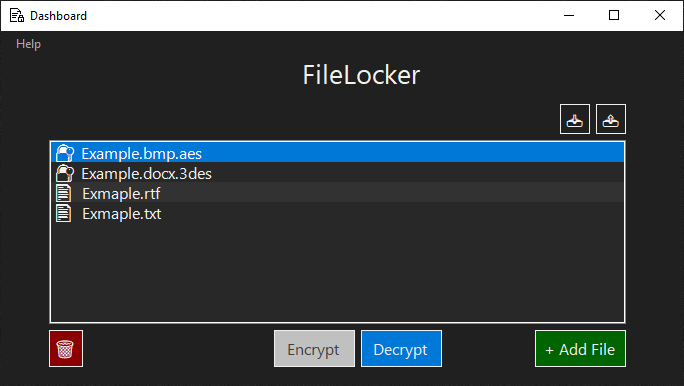
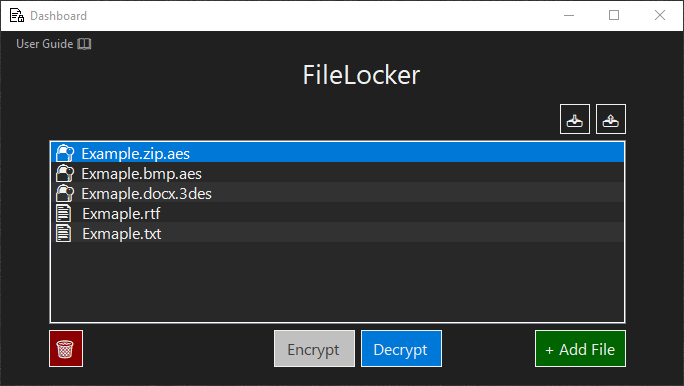
Added inactivity timer and UI update
Changed Help tab to User Guide.  EncryptForm's and DecryptForm's passwords are cleared after 30 seconds of inactivity. Updated README accordingly.

diff --git a/WinFormsUI/Forms/EncryptForm.Designer.cs b/WinFormsUI/Forms/EncryptForm.Designer.cs
@@ -28,6 +28,7 @@
         /// </summary>
         private void InitializeComponent()
         {
+            components = new System.ComponentModel.Container();
             System.ComponentModel.ComponentResourceManager resources = new System.ComponentModel.ComponentResourceManager(typeof(EncryptForm));
             PasswordMaskedTextBox = new MaskedTextBox();
             PasswordLabel = new Label();
@@ -44,6 +45,7 @@
             EncryptionAlgorithmLabel = new Label();
             EncryptionAlgorithmComboBox = new ComboBox();
             PasswordWarningLabel = new Label();
+            InactivityTimer = new System.Windows.Forms.Timer(components);
             SuspendLayout();
             // 
             // PasswordMaskedTextBox
@@ -56,6 +58,7 @@
             PasswordMaskedTextBox.Size = new Size(277, 29);
             PasswordMaskedTextBox.TabIndex = 1;
             PasswordMaskedTextBox.UseSystemPasswordChar = true;
+            PasswordMaskedTextBox.Click += PasswordMaskedTextBox_Click;
             PasswordMaskedTextBox.TextChanged += PasswordMaskedTextBox_TextChanged;
             // 
             // PasswordLabel
@@ -162,6 +165,7 @@
             ConfirmPasswordMaskedTextBox.Size = new Size(277, 29);
             ConfirmPasswordMaskedTextBox.TabIndex = 11;
             ConfirmPasswordMaskedTextBox.UseSystemPasswordChar = true;
+            ConfirmPasswordMaskedTextBox.Click += ConfirmPasswordMaskedTextBox_Click;
             ConfirmPasswordMaskedTextBox.TextChanged += ConfirmPasswordMaskedTextBox_TextChanged;
             // 
             // ConfirmPasswordLabel
@@ -211,6 +215,7 @@
             EncryptionAlgorithmComboBox.Size = new Size(277, 29);
             EncryptionAlgorithmComboBox.TabIndex = 15;
             EncryptionAlgorithmComboBox.SelectedIndexChanged += EncryptionAlgorithmComboBox_SelectedIndexChanged;
+            EncryptionAlgorithmComboBox.Click += EncryptionAlgorithmComboBox_Click;
             // 
             // PasswordWarningLabel
             // 
@@ -223,6 +228,12 @@
             PasswordWarningLabel.TabIndex = 16;
             PasswordWarningLabel.Text = "If your password is lost, so is your data.";
             PasswordWarningLabel.Visible = false;
+            // 
+            // InactivityTimer
+            // 
+            InactivityTimer.Enabled = true;
+            InactivityTimer.Interval = 30000;
+            InactivityTimer.Tick += InactivityTimer_Tick;
             // 
             // EncryptForm
             // 
@@ -251,6 +262,8 @@
             Name = "EncryptForm";
             StartPosition = FormStartPosition.CenterParent;
             Text = "Encrypt";
+            MouseDown += EncryptForm_MouseDown;
+            MouseMove += EncryptForm_MouseMove;
             ResumeLayout(false);
             PerformLayout();
         }
@@ -272,5 +285,6 @@
         private Label EncryptionAlgorithmLabel;
         private ComboBox EncryptionAlgorithmComboBox;
         private Label PasswordWarningLabel;
+        private System.Windows.Forms.Timer InactivityTimer;
     }
 }

diff --git a/WinFormsUI/Forms/DashboardForm.Designer.cs b/WinFormsUI/Forms/DashboardForm.Designer.cs
@@ -37,7 +37,6 @@
             AddButton = new Button();
             FileLockerLabel = new Label();
             MenuStrip = new MenuStrip();
-            HelpMenuItem = new ToolStripMenuItem();
             UserGuideMenuItem = new ToolStripMenuItem();
             FileListBoxItemContextMenuStrip = new ContextMenuStrip(components);
             RemoveFromListItem = new ToolStripMenuItem();
@@ -138,30 +137,21 @@
             // 
             MenuStrip.BackColor = Color.FromArgb(32, 32, 32);
             MenuStrip.Font = new Font("Microsoft Sans Serif", 9F);
-            MenuStrip.Items.AddRange(new ToolStripItem[] { HelpMenuItem });
+            MenuStrip.Items.AddRange(new ToolStripItem[] { UserGuideMenuItem });
             MenuStrip.Location = new Point(0, 0);
             MenuStrip.Name = "MenuStrip";
             MenuStrip.Size = new Size(682, 24);
             MenuStrip.TabIndex = 8;
             MenuStrip.Text = "menuStrip1";
             // 
-            // HelpMenuItem
-            // 
-            HelpMenuItem.BackColor = Color.FromArgb(32, 32, 32);
-            HelpMenuItem.DropDownItems.AddRange(new ToolStripItem[] { UserGuideMenuItem });
-            HelpMenuItem.Font = new Font("Segoe UI Emoji", 9F);
-            HelpMenuItem.ForeColor = SystemColors.AppWorkspace;
-            HelpMenuItem.Name = "HelpMenuItem";
-            HelpMenuItem.Size = new Size(44, 20);
-            HelpMenuItem.Text = "&Help";
-            // 
             // UserGuideMenuItem
             // 
-            UserGuideMenuItem.BackColor = SystemColors.Control;
-            UserGuideMenuItem.ForeColor = SystemColors.ControlText;
+            UserGuideMenuItem.BackColor = Color.FromArgb(32, 32, 32);
+            UserGuideMenuItem.Font = new Font("Segoe UI Emoji", 9F);
+            UserGuideMenuItem.ForeColor = SystemColors.AppWorkspace;
             UserGuideMenuItem.Name = "UserGuideMenuItem";
-            UserGuideMenuItem.Size = new Size(131, 22);
-            UserGuideMenuItem.Text = "User &Guide";
+            UserGuideMenuItem.Size = new Size(95, 20);
+            UserGuideMenuItem.Text = "User &Guide 📖";
             UserGuideMenuItem.Click += UserGuideMenuItem_Click;
             // 
             // FileListBoxItemContextMenuStrip
@@ -246,7 +236,6 @@
         private Button AddButton;
         private Label FileLockerLabel;
         private MenuStrip MenuStrip;
-        private ToolStripMenuItem HelpMenuItem;
         private ToolStripMenuItem UserGuideMenuItem;
         private ContextMenuStrip FileListBoxItemContextMenuStrip;
         private ToolStripMenuItem RemoveFromListItem;

diff --git a/WinFormsUI/Forms/DecryptForm.Designer.cs b/WinFormsUI/Forms/DecryptForm.Designer.cs
@@ -28,11 +28,13 @@
         /// </summary>
         private void InitializeComponent()
         {
+            components = new System.ComponentModel.Container();
             System.ComponentModel.ComponentResourceManager resources = new System.ComponentModel.ComponentResourceManager(typeof(DecryptForm));
             PasswordLabel = new Label();
             PasswordMaskedTextBox = new MaskedTextBox();
             EyeballLabel = new Label();
             EnterButton = new Button();
+            InactivityTimer = new System.Windows.Forms.Timer(components);
             SuspendLayout();
             // 
             // PasswordLabel
@@ -56,6 +58,8 @@
             PasswordMaskedTextBox.Size = new Size(277, 29);
             PasswordMaskedTextBox.TabIndex = 1;
             PasswordMaskedTextBox.UseSystemPasswordChar = true;
+            PasswordMaskedTextBox.Click += PasswordMaskedTextBox_Click;
+            PasswordMaskedTextBox.TextChanged += PasswordMaskedTextBox_TextChanged;
             // 
             // EyeballLabel
             // 
@@ -84,6 +88,12 @@
             EnterButton.UseVisualStyleBackColor = false;
             EnterButton.Click += EnterButton_Click;
             // 
+            // InactivityTimer
+            // 
+            InactivityTimer.Enabled = true;
+            InactivityTimer.Interval = 30000;
+            InactivityTimer.Tick += InactivityTimer_Tick;
+            // 
             // DecryptForm
             // 
             AutoScaleDimensions = new SizeF(9F, 21F);
@@ -100,6 +110,8 @@
             Name = "DecryptForm";
             StartPosition = FormStartPosition.CenterParent;
             Text = "Decrypt";
+            MouseDown += DecryptForm_MouseDown;
+            MouseMove += DecryptForm_MouseMove;
             ResumeLayout(false);
             PerformLayout();
         }
@@ -110,5 +122,6 @@
         private MaskedTextBox PasswordMaskedTextBox;
         private Label EyeballLabel;
         private Button EnterButton;
+        private System.Windows.Forms.Timer InactivityTimer;
     }
 }

diff --git a/WinFormsUI/Forms/EncryptForm.cs b/WinFormsUI/Forms/EncryptForm.cs
@@ -53,6 +53,7 @@ public partial class EncryptForm : Form
         }
         finally
         {
+            ResetTimer();
             this.Close();
             caller.EncryptionComplete();
         }
@@ -119,6 +120,8 @@ public partial class EncryptForm : Form
 
             isEyeballLabelClicked = true;
         }
+
+        ResetTimer();
     }
 
     private void PasswordMaskedTextBox_TextChanged(object sender, EventArgs e)
@@ -202,16 +205,19 @@ public partial class EncryptForm : Form
         }
 
         UpdateControls();
+        ResetTimer();
     }
 
     private void ConfirmPasswordMaskedTextBox_TextChanged(object sender, EventArgs e)
     {
         UpdateControls();
+        ResetTimer();
     }
 
     private void EncryptionAlgorithmComboBox_SelectedIndexChanged(object sender, EventArgs e)
     {
         UpdateControls();
+        ResetTimer();
     }
 
     static string GenerateRandomPassword()
@@ -267,5 +273,44 @@ public partial class EncryptForm : Form
 
         if (!isEyeballLabelClicked)
             EyeballLabel_Click(null, null);
+
+        ResetTimer();
+    }
+
+    private void InactivityTimer_Tick(object sender, EventArgs e)
+    {
+        PasswordMaskedTextBox.Text = "";
+        ConfirmPasswordMaskedTextBox.Text = "";
+    }
+
+    private void EncryptForm_MouseDown(object sender, MouseEventArgs e)
+    {
+        ResetTimer();
+    }
+
+    private void EncryptForm_MouseMove(object sender, MouseEventArgs e)
+    {
+        ResetTimer();
+    }
+
+    private void PasswordMaskedTextBox_Click(object sender, EventArgs e)
+    {
+        ResetTimer();
+    }
+
+    private void ConfirmPasswordMaskedTextBox_Click(object sender, EventArgs e)
+    {
+        ResetTimer();
+    }
+
+    private void EncryptionAlgorithmComboBox_Click(object sender, EventArgs e)
+    {
+        ResetTimer();
+    }
+
+    private void ResetTimer()
+    {
+        InactivityTimer.Stop();
+        InactivityTimer.Start();
     }
 }

diff --git a/WinFormsUI/Forms/DashboardForm.cs b/WinFormsUI/Forms/DashboardForm.cs
@@ -234,45 +234,6 @@ public partial class DashboardForm : Form, IEncryptFormCaller, IDecryptFormCalle
         Process.Start(processStartInfo);
     }
 
-    private void ExitMenuItem_Click(object sender, EventArgs e)
-    {
-        Application.Exit();
-    }
-
-    private void ExportMenuItem_Click(object sender, EventArgs e)
-    {
-        if (selectedFiles.Count != 1)
-            return;
-
-        FileModel model = selectedFiles.First();
-
-        using SaveFileDialog saveFileDialog = new();
-        saveFileDialog.Title = "Save Archive";
-        saveFileDialog.Filter = "Zip files (*.zip)|*.zip";
-        saveFileDialog.FileName = model.FileName + ".zip";
-        saveFileDialog.InitialDirectory = Environment.GetFolderPath(Environment.SpecialFolder.Desktop);
-        saveFileDialog.OverwritePrompt = true;
-
-        DialogResult result = saveFileDialog.ShowDialog();
-        if (result != DialogResult.OK)
-            return;
-
-        try
-        {
-            GlobalConfig.DataAccessor.ExportZipFileModel(model, saveFileDialog.FileName);
-        }
-        catch
-        {
-            MessageBox.Show("Could not export, the file may be missing.", "Error", MessageBoxButtons.OK);
-        }
-    }
-
-    private void ImportMenuItem_Click(object sender, EventArgs e)
-    {
-        ImportForm importForm = new(this);
-        importForm.ShowDialog();
-    }
-
     private void AddFiles(string[] paths)
     {
         bool fileTooLarge = false;

diff --git a/WinFormsUI/Forms/DecryptForm.cs b/WinFormsUI/Forms/DecryptForm.cs
@@ -50,6 +50,7 @@ public partial class DecryptForm : Form
         }
         finally
         {
+            ResetTimer();
             this.Close();
             caller.DecryptionComplete();
         }
@@ -86,5 +87,38 @@ public partial class DecryptForm : Form
 
             isEyeballLabelClicked = true;
         }
+
+        ResetTimer();
+    }
+
+    private void InactivityTimer_Tick(object sender, EventArgs e)
+    {
+        PasswordMaskedTextBox.Text = "";
+    }
+
+    private void ResetTimer()
+    {
+        InactivityTimer.Stop();
+        InactivityTimer.Start();
+    }
+
+    private void PasswordMaskedTextBox_TextChanged(object sender, EventArgs e)
+    {
+        ResetTimer();
+    }
+
+    private void PasswordMaskedTextBox_Click(object sender, EventArgs e)
+    {
+        ResetTimer();
+    }
+
+    private void DecryptForm_MouseDown(object sender, MouseEventArgs e)
+    {
+        ResetTimer();
+    }
+
+    private void DecryptForm_MouseMove(object sender, MouseEventArgs e)
+    {
+        ResetTimer();
     }
 }

diff --git a/README.md b/README.md
@@ -38,14 +38,8 @@ The Dashboard Form displays files within FileLocker's scope. Each file's status 
 - **🗑**: shreds a file by overwriting its contents with random data and then deleting.
 - 📥: imports a chosen file archive.
 - 📤: exports the selected file.
+- **User Guide 📖**: opens the GitHub repository in the default browser.
 - **File List**: right click on a file to display options, or drag and drop files onto the panel to add them.
-
-### Tabs
-
-<img src="./images/HelpTab.png" alt="Help Tab" width="400">
-
-- **Help Tab**:
-  - User Guide: opens the GitHub repository in the default browser.
 
 ---
 
@@ -53,7 +47,7 @@ The Dashboard Form displays files within FileLocker's scope. Each file's status 
 
 <img src="./images/EncryptForm.png" alt="Encrypt Form" width="400">
 
-The Encrypt Form allows users to encrypt by choosing an industry-standard encryption algorithm such as AES or 3DES and providing a strength-enforced password.
+The Encrypt Form allows users to encrypt by choosing an industry-standard encryption algorithm such as AES or 3DES and providing a strength-enforced password. Passwords cleared after 30 seconds of inactivity.
 
 - **Generate Random**: generates a random password that satisfies the strength policy.
 - **→**: encrypts the file with the provided password.
@@ -93,7 +87,7 @@ The Decrypt Form allows users to decrypt by inputting the encryption password.
 - **Integrity**: Generates HMACs to ensure the integrity of stored or transmitted data.
 - **Password Strength Policy**: Sets a strong password to mitigate brute-force attacks.
 - **Password Generator**: Generates a password without the need to manually type, mitigating the effect of keystroke logging malware.
-- **Password Management**: Hashes and salts passwords to protect against rainbow table attacks.
+- **Password Management**: Clears password inputs after a set time if the device is left running.
 - **Password-Based Key Derivation**: Derives encryption keys from passwords.
 - **Logging**: Logs important events such as encryption and decryption with Serilog.
 - **Constant-Time Comparison**: Uses libraries with constant-time comparison to mitigate timing attacks.
